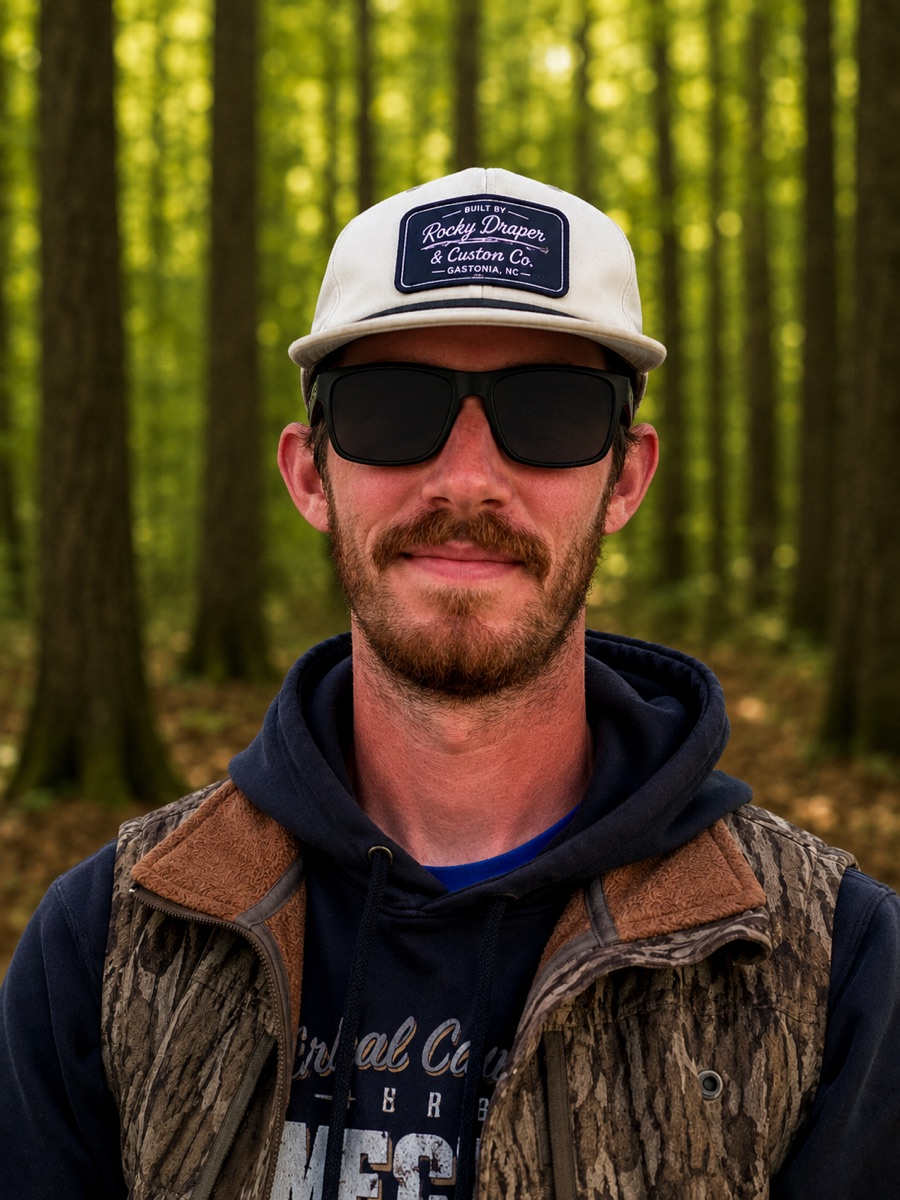
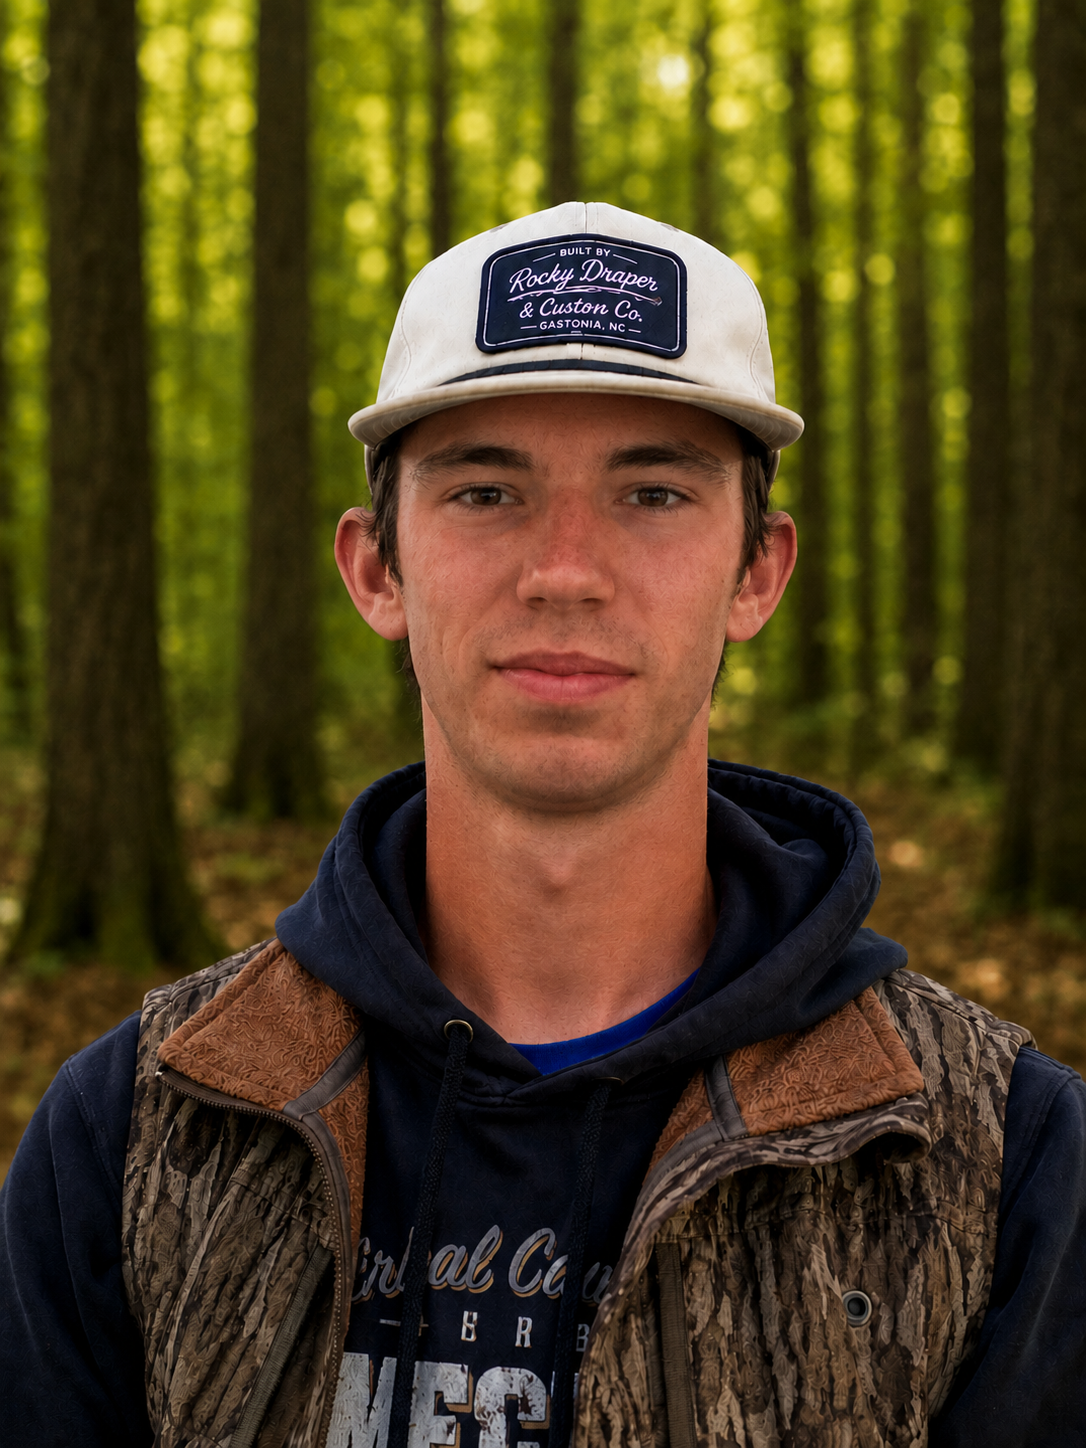
Changed shane image

diff --git a/data/team.ts b/data/team.ts
@@ -20,7 +20,7 @@ export type TeamMember = {
 //  - Billy Feltman: bio and photo supplied (billy.jpg).
 //  - Neal Hargle: bio supplied, photo supplied (neal.jpg).
 //  - Matthew Sheffield: bio and photo supplied (matthew-sheffield.jpg).
-//  - Jerry Sanford: bio and photo supplied (Jerry.jpg).
+//  - Jerry Sanford: bio and photo supplied (jerry.jpg).
 export const team: TeamMember[] = [
   {
     slug: "adam-aderholt",
@@ -78,7 +78,7 @@ export const team: TeamMember[] = [
   {
     slug: "jerry-sanford",
     name: "Jerry Sanford",
-    photo: "/images/team/Jerry.jpg",
+    photo: "/images/team/jerry.jpg",
     summary:
       "A certified welder, chainsaw operator, and CDL holder — one of the most dependable, hardest-working hands on the crew.",
     bio: [
